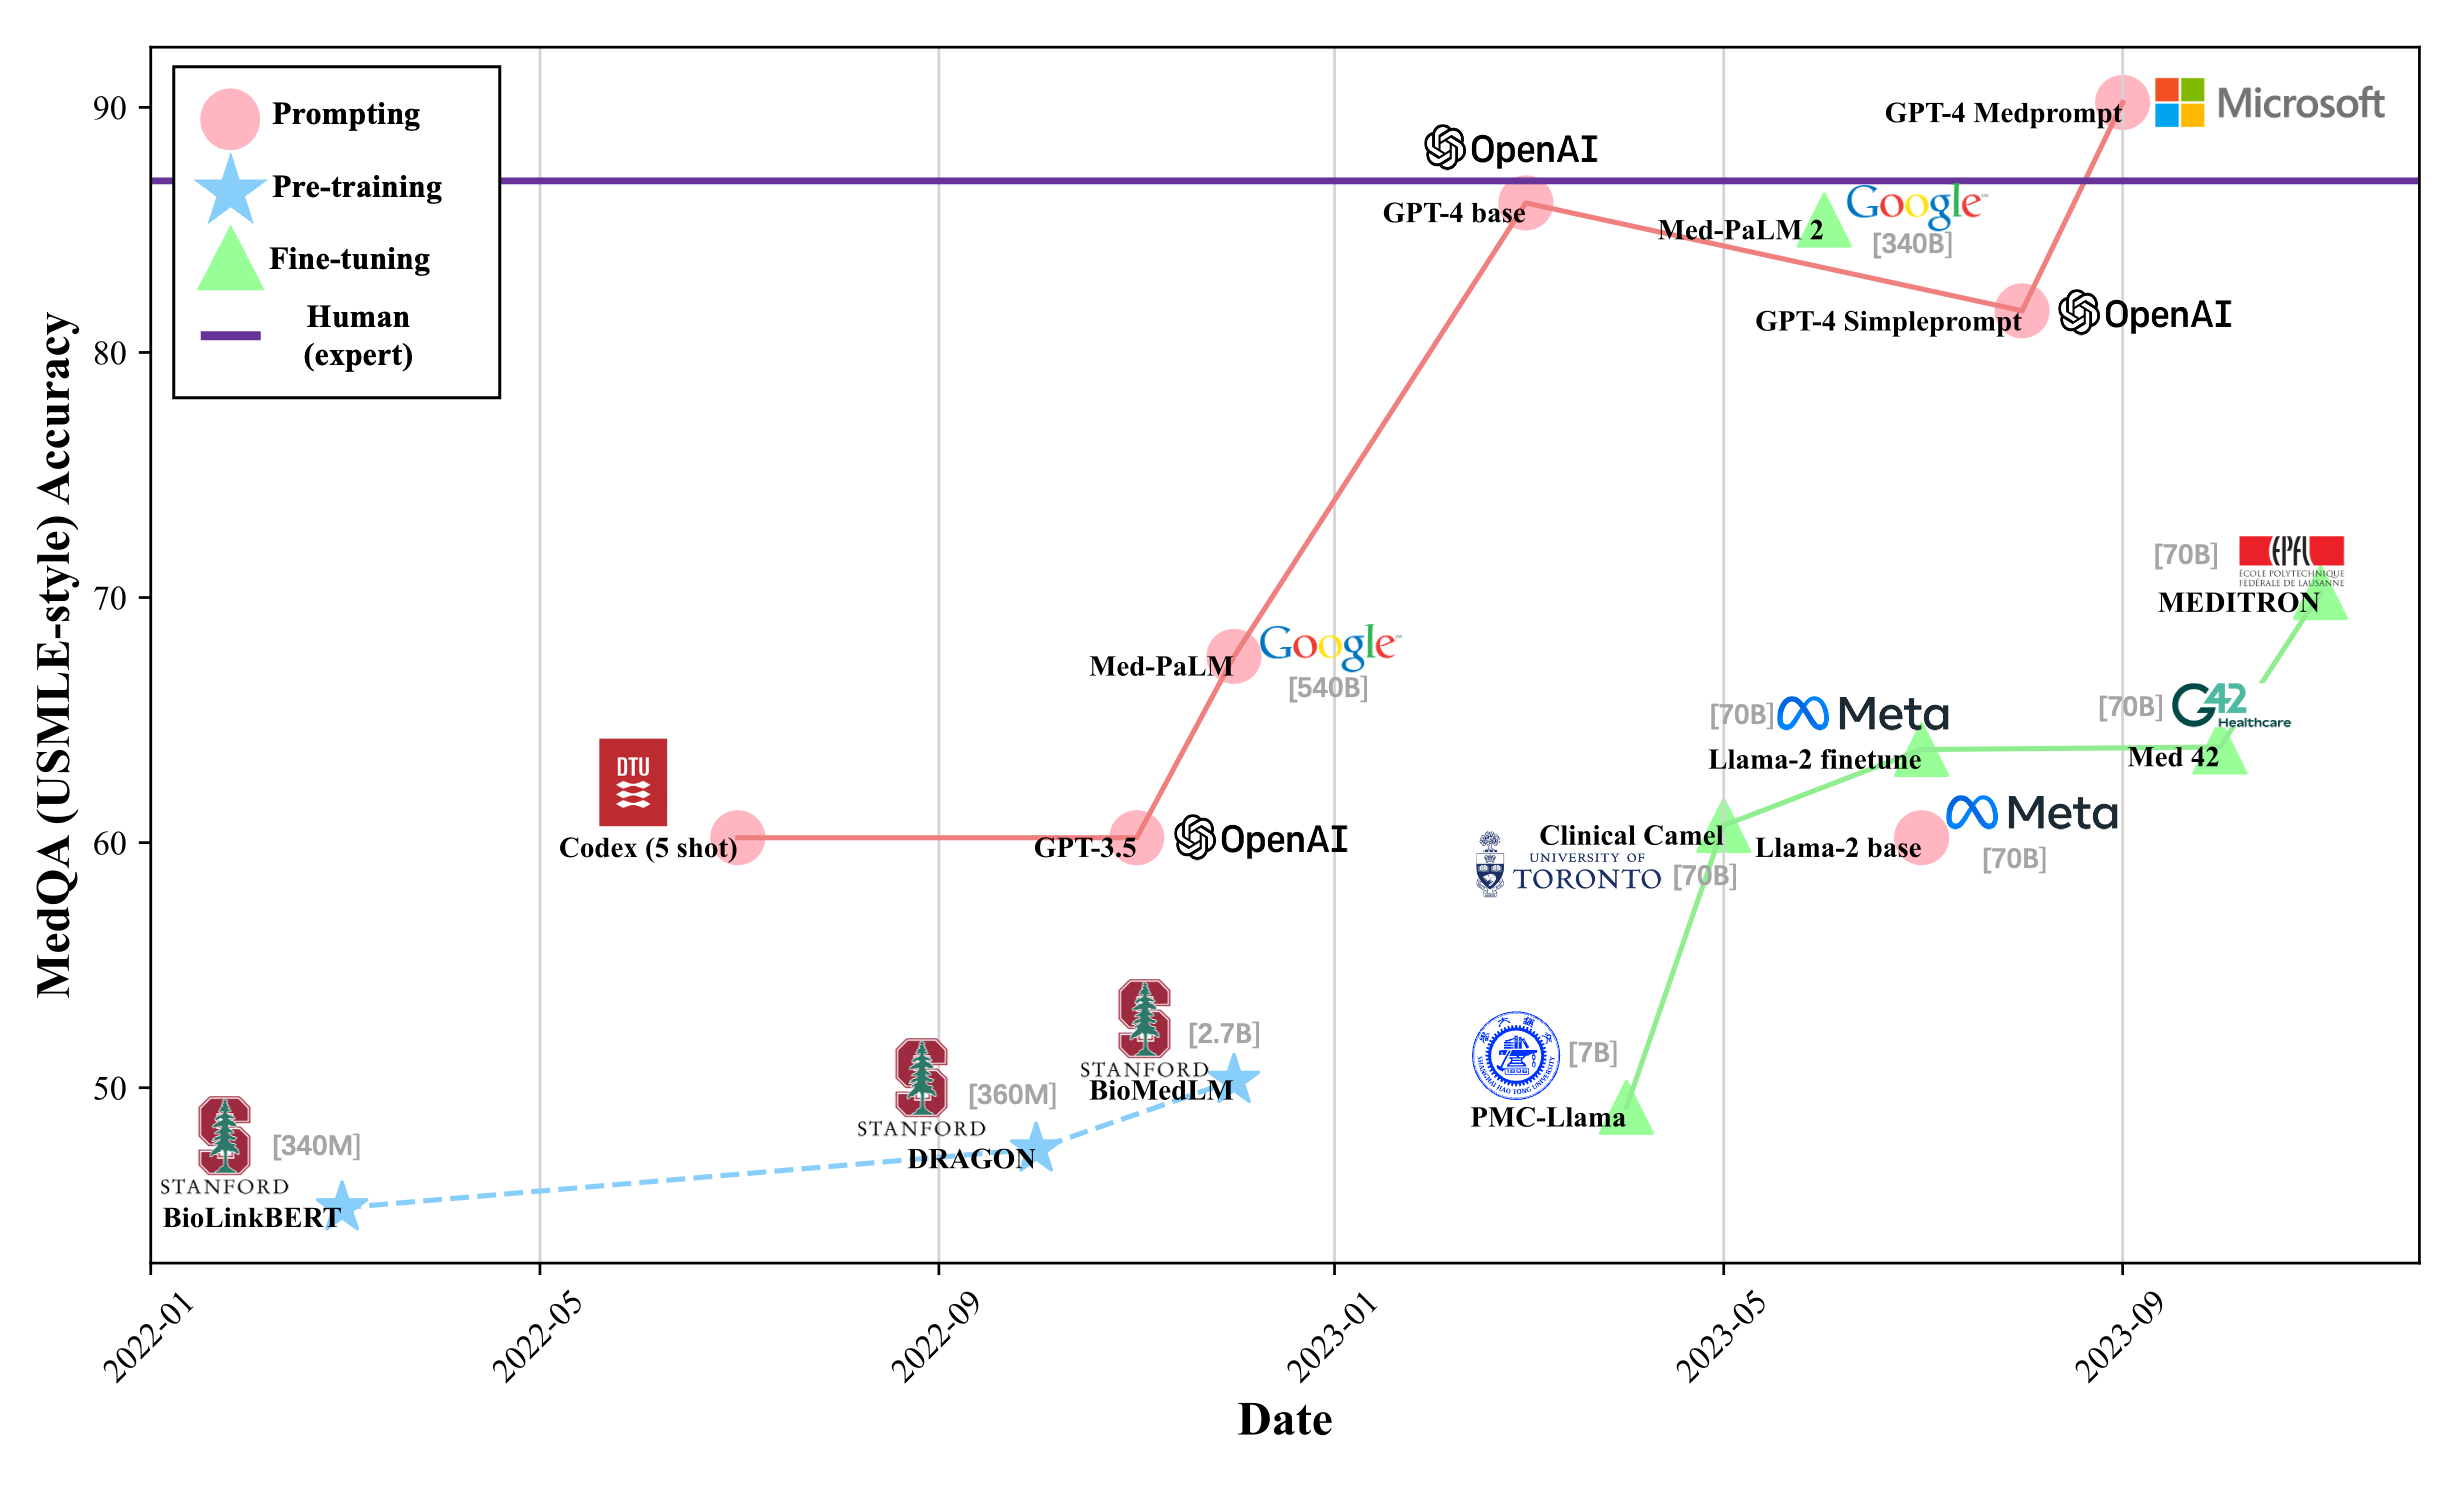
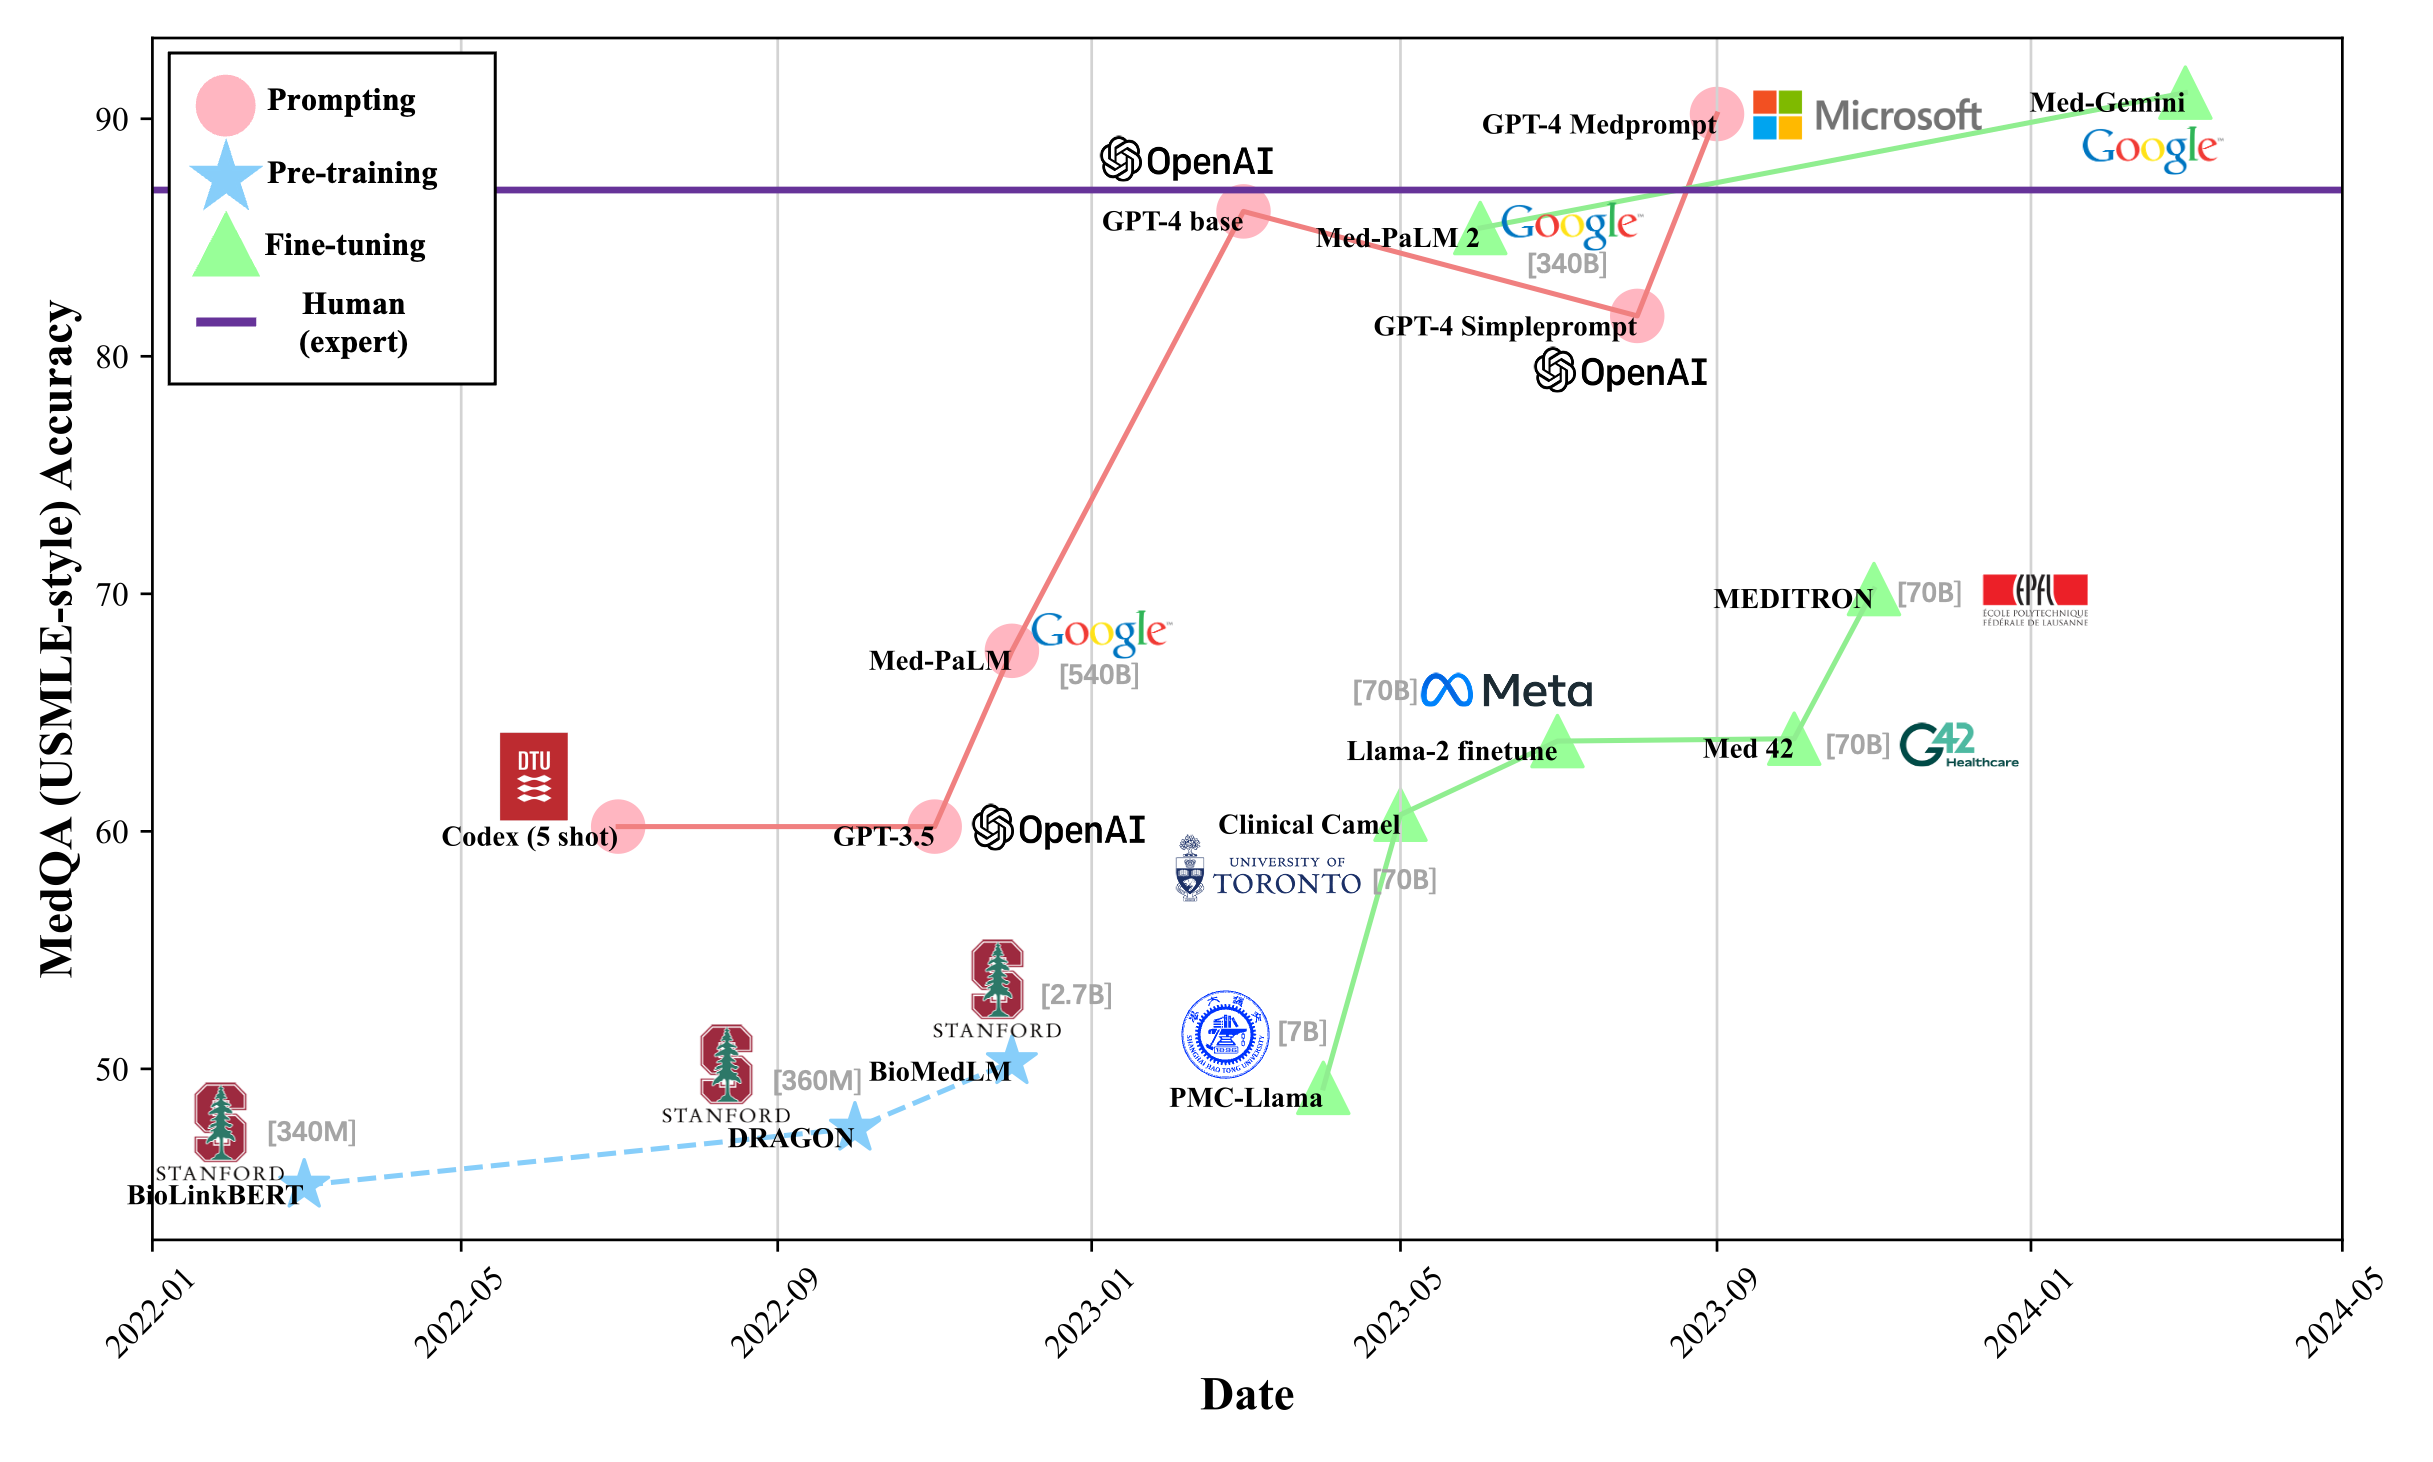
update

diff --git a/README.md b/README.md
@@ -155,8 +155,9 @@ This survey aims to provide insights into the opportunities and challenges of LL
 * [**BioNLP Workshop, 2019**] **BlueBERT**：Transfer Learning in Biomedical Natural Language Processing: An Evaluation of BERT and ELMo on Ten Benchmarking Datasets. [paper](https://arxiv.org/abs/1906.05474)
 
 ### Fine-tuning General LLMs
-* [**Arxiv, 2023.12**] **From Beginner to Expert**: Modeling Medical Knowledge into General LLMs. 2023. [paper](https://arxiv.org/abs/2312.01040)
-* [**Arxiv, 2023.11**] **Taiyi**: A Bilingual Fine-Tuned Large Language Model for Diverse Biomedical Tasks. 2023. [paper](https://arxiv.org/abs/2311.11608) [code](https://github.com/DUTIR-BioNLP/Taiyi-LLM)
+* [**Arxiv, 2024.04**] **Med-Gemini** Capabilities of Gemini Models in Medicine. [paper](https://arxiv.org/pdf/2404.18416)
+* [**Arxiv, 2023.12**] **From Beginner to Expert**: Modeling Medical Knowledge into General LLMs. [paper](https://arxiv.org/abs/2312.01040)
+* [**Arxiv, 2023.11**] **Taiyi**: A Bilingual Fine-Tuned Large Language Model for Diverse Biomedical Tasks. [paper](https://arxiv.org/abs/2311.11608) [code](https://github.com/DUTIR-BioNLP/Taiyi-LLM)
 * [**Arxiv, 2023.10**] **AlpaCare**: Instruction-tuned Large Language Models for Medical Application. [paper](https://arxiv.org/abs/2310.14558) [code](https://github.com/XZhang97666/AlpaCare)
 <!-- * [**Arxiv, 2023.10**] **Med42**: A Clinical Large Language Model. [code](https://huggingface.co/m42-health/med42-70b) -->
 * [**Arxiv, 2023.10**] **BianQue**：Balancing the Questioning and Suggestion Ability of Health LLMs with Multi-turn Health Conversations Polished by ChatGPT. [paper](https://arxiv.org/abs/2310.15896)
